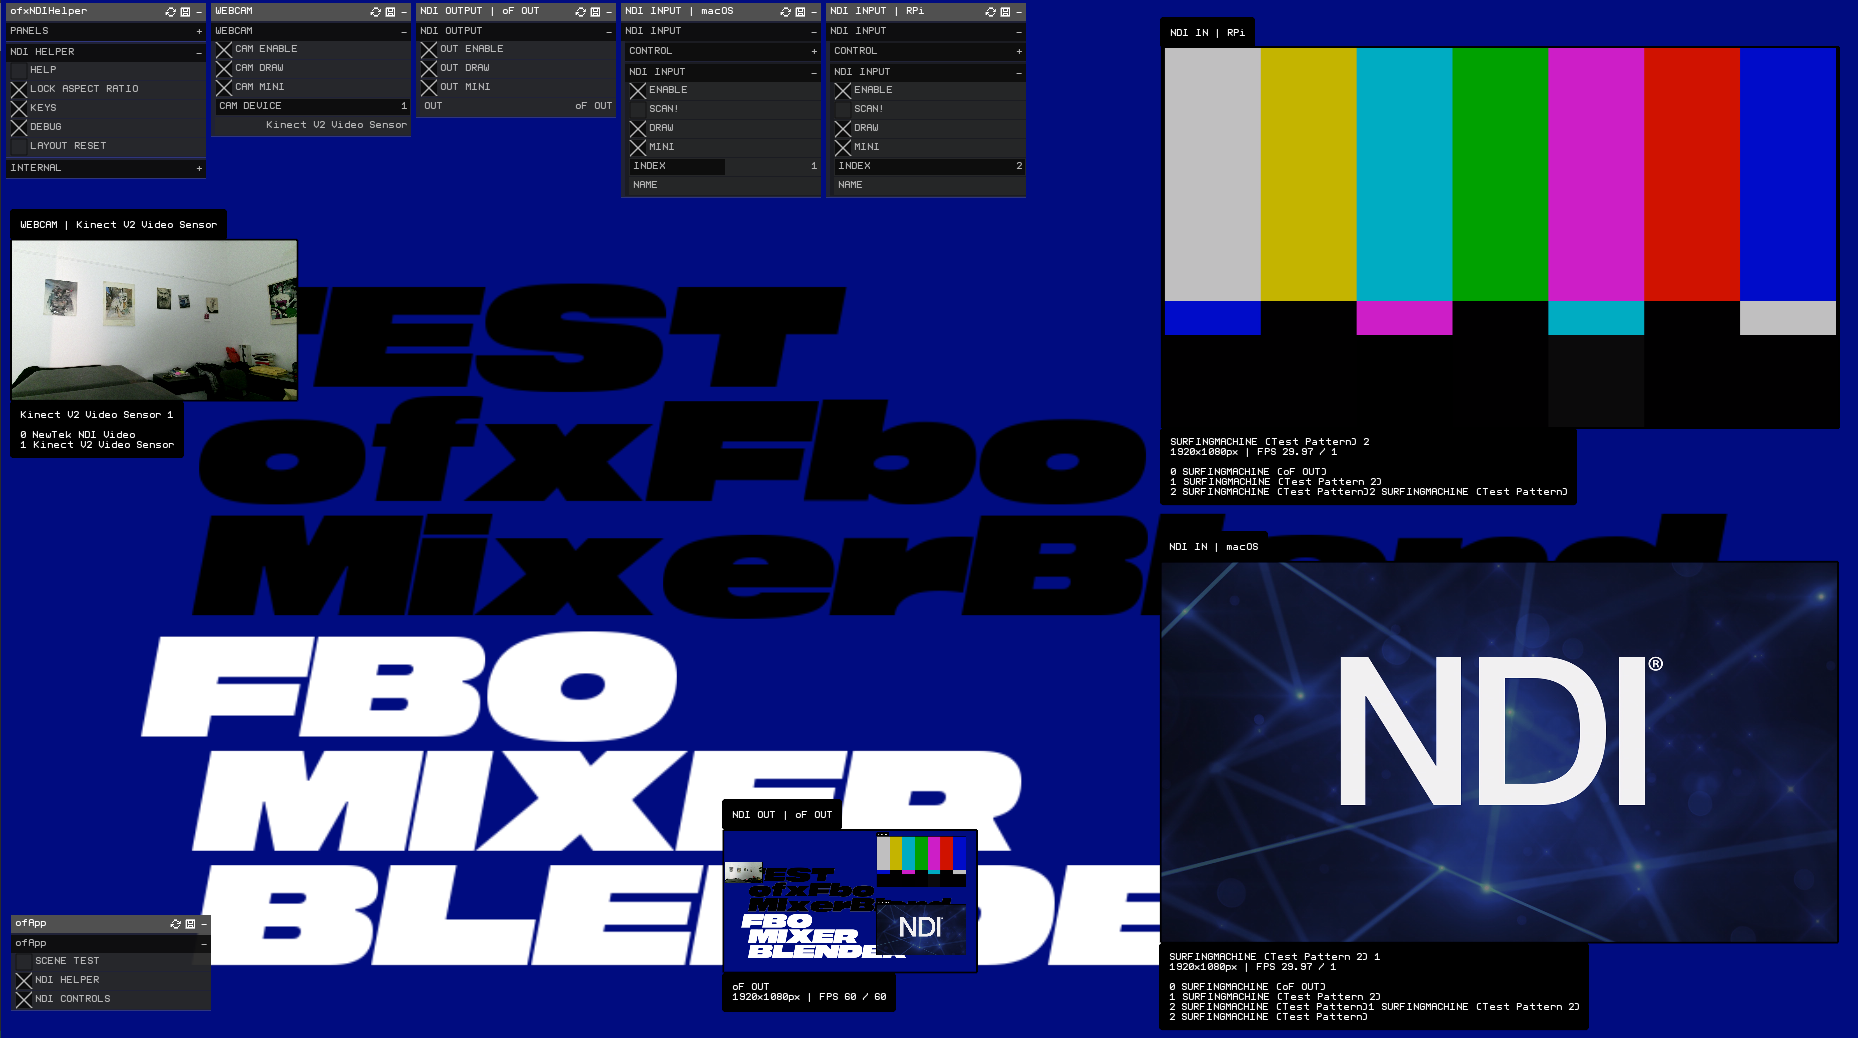
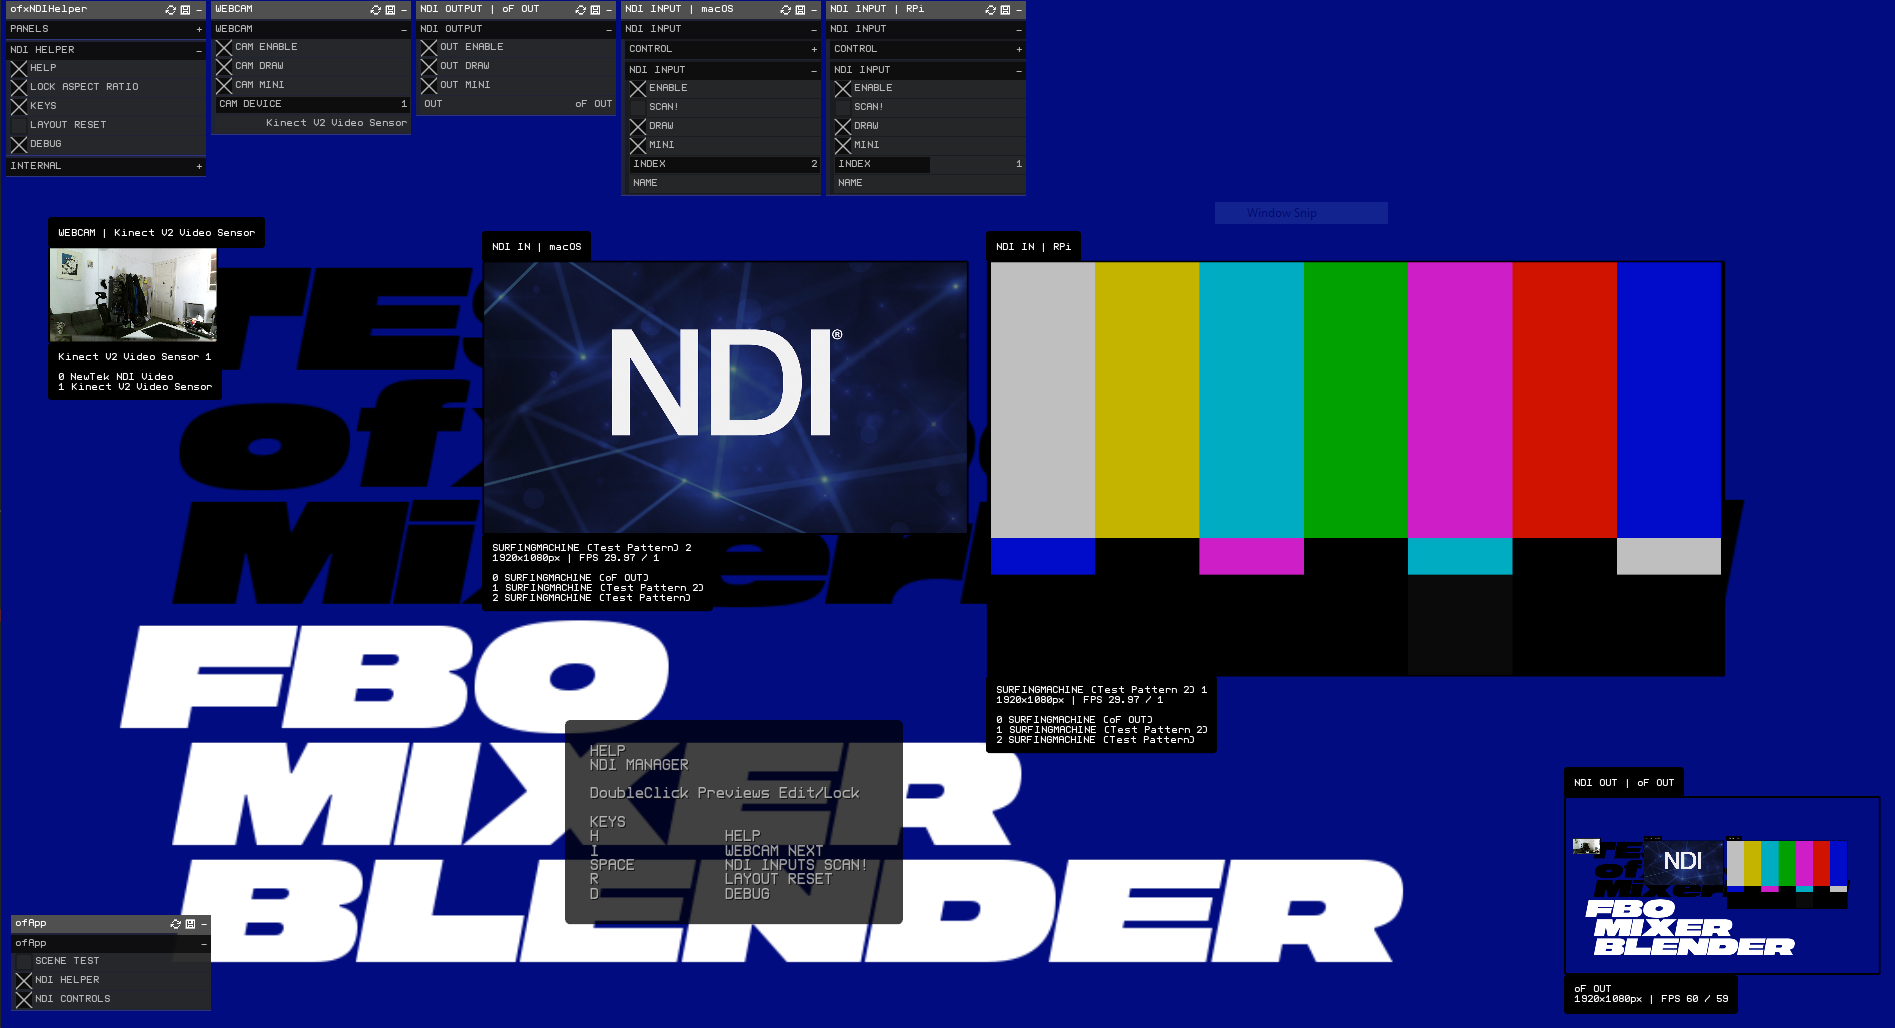
'

diff --git a/src/ofxNDIHelper.cpp b/src/ofxNDIHelper.cpp
@@ -26,13 +26,14 @@ ofxNDIHelper::ofxNDIHelper()
 	helpInfo += "HELP \n";
 	helpInfo += "NDI MANAGER \n";
 	helpInfo += "\n";
+	helpInfo += "DoubleClick Previews Edit/Lock \n";
+	helpInfo += "\n";
 	helpInfo += "KEYS \n";
 	helpInfo += "H              HELP \n";
-	helpInfo += "E              EDIT \n";
 	helpInfo += "I              WEBCAM NEXT \n";
-	helpInfo += "SPACE          NDI INPUT SCAN! \n";
+	helpInfo += "SPACE          NDI INPUTS SCAN! \n";
+	helpInfo += "R              LAYOUT RESET \n";
 	helpInfo += "D              DEBUG \n";
-	//helpInfo += "K              KEYS \n";
 
 	textBoxWidget.setText(helpInfo);
 
@@ -85,11 +86,6 @@ void ofxNDIHelper::reset_Gui()
 //--------------------------------------------------------------
 void ofxNDIHelper::setup_Gui()
 {
-	//--
-
-	// ofxGui Theme
-
-	ofxSurfingHelpers::setThemeDarkMini_ofxGui();
 
 	//--
 
@@ -140,6 +136,14 @@ void ofxNDIHelper::setup()
 {
 	// log mode
 	ofSetLogLevel("ofxNDIHelper", OF_LOG_NOTICE);
+
+	//--
+
+	// ofxGui Theme
+
+	ofxSurfingHelpers::setThemeDarkMini_ofxGui();
+
+	//--
 
 	// Gui display font
 
@@ -338,8 +342,8 @@ void ofxNDIHelper::setup_Params()
 	params_User.add(bHelp);
 	params_User.add(bLockRatio);
 	params_User.add(bKeys);
-	params_User.add(bDebug);//TODO: BUG: not linking when makeReference from parent scope..
 	params_User.add(bReset);
+	params_User.add(bDebug);//TODO: BUG: not linking when makeReference from parent scope..
 
 	//--
 
@@ -645,6 +649,11 @@ void ofxNDIHelper::keyPressed(ofKeyEventArgs& eventArgs)
 	else if (key == 'H')
 	{
 		bHelp = !bHelp;
+	}
+
+	else if (key == 'R')
+	{
+		doReset_Mini_Previews();
 	}
 
 	//--
@@ -1076,67 +1085,86 @@ void ofxNDIHelper::webcam_LoadSettings()
 //--------------------------------------------------------------
 void ofxNDIHelper::doReset_Mini_Previews()
 {
+	// Align all the previews using Webcam as anchor!
+	 
+	//float _xx0 = 100;
+	//float _yy0 = 250;
+	float _xx0 = rect_Webcam.getX();
+	float _yy0 = rect_Webcam.getY();
+
+	float _ratio;
+	float _xx;
+	float _yy;
+	float _ww;
+	float _hh;
+
+	//--
+
 #ifdef USE_WEBCAM
 
-	//float _ratio = vidGrabber.getHeight() / vidGrabber.getWidth();
-	//float _pad = 20;
-	//float _xx = gui_Controls.getShape().getTopRight().x + _pad;
-	//float _yy = gui_Controls.getShape().getTopRight().y + 28;
+	//rect_Webcam.reset();
 
-	////rect_Webcam.width = wPreview;
-	////rect_Webcam.height = rect_Webcam.width * _ratio;
-	////rect_Webcam.x = _xx;
-	////rect_Webcam.y = _yy;
+	_ratio = vidGrabber.getHeight() / vidGrabber.getWidth();
 
-	////glm::vec2 p = glm::vec2(gui_Control.getShape().getTopRight());
-	////float _xx = p.x + _pad;
-	////float _yy = p.y + 28;
+	_xx = _xx0;
+	_yy = _yy0;
+	_ww = rect_Webcam.getWidth();
+	//_ww = wPreview;
+	_hh = _ww * _ratio;
 
-	//rect_Webcam.setShape(ofRectangle(_xx, _yy, wPreview, wPreview * _ratio));
-	rect_Webcam.reset();
-
-#endif
-
-#ifdef USE_ofxNDI_OUT
-
-	//_ratio = fbo_NDI_Sender.getHeight() / fbo_NDI_Sender.getWidth();
-	//_yy += rect_Webcam.getRectangle().getBottomLeft().y + yPadPreview;
-	////rect_NDI_OUT.width = wPreview;
-	////rect_NDI_OUT.height = rect_NDI_OUT.width * _ratio;
-	////rect_NDI_OUT.x = _xx;
-	////rect_NDI_OUT.y = _yy;
-
-	//rect_NDI_OUT.setShape(ofRectangle(_xx, _yy, wPreview, wPreview * _ratio));
-	rect_NDI_OUT.reset();
+	rect_Webcam.setShape(ofRectangle(_xx, _yy, _ww, _hh));
 
 #endif
 
 	//--
 
-//	float _pad = 200;
-//	float _xx = xPadPreview;
-//	float _yy = yPadPreview;
-//	float _ratio;
-//
-//#ifdef USE_WEBCAM
-//	_yy += _pad + rect_NDI_OUT.height;
-//	_ratio = vidGrabber.getHeight() / vidGrabber.getWidth();
-//	rect_Webcam.width = wPreview;
-//	rect_Webcam.height = rect_Webcam.width * _ratio;
-//	rect_Webcam.x = _xx;
-//	rect_Webcam.y = _yy;
-//#endif
-//
-//#ifdef USE_ofxNDI_OUT
-//	_xx += xPadPreview + rect_Webcam.width;
-//	_yy = yPadPreview;
-//	//_yy += _pad + rect_NDI_IN.height;
-//	_ratio = fbo_NDI_Sender.getHeight() / fbo_NDI_Sender.getWidth();
-//	rect_NDI_OUT.width = wPreview;
-//	rect_NDI_OUT.height = rect_NDI_OUT.width * _ratio;
-//	rect_NDI_OUT.x = _xx;
-//	rect_NDI_OUT.y = _yy;
-//#endif
+#ifdef USE_ofxNDI_OUT
+
+	//rect_NDI_OUT.reset();
+
+	_ratio = fbo_NDI_Sender.getHeight() / fbo_NDI_Sender.getWidth();
+
+	_xx = _xx0;
+	_yy += _hh + yPadPreview;
+	_ww = rect_NDI_OUT.getWidth();
+	//_ww = wPreview;
+	_hh = _ww * _ratio;
+
+	rect_NDI_OUT.setShape(ofRectangle(_xx, _yy, _ww, _hh));
+
+#endif
+
+	//--
+
+#ifdef USE_ofxNDI_IN
+
+	//NDI_Input1.doReset_Mini_Previews();
+
+	_xx = _xx0 + MAX(rect_Webcam.getWidth(), rect_NDI_OUT.getWidth()) + pad;
+	_yy = _yy0 ;
+	//_ww = wPreview;
+	_hh = _ww * _ratio;
+
+	auto r = NDI_Input1.getPreviewRect();
+	_ratio = r.getHeight() / r.getWidth();
+	_ww = r.getWidth();
+	
+	NDI_Input1.setPositionPreview(glm::vec2(_xx, _yy));
+
+	//--
+
+	//NDI_Input2.doReset_Mini_Previews();
+
+	_xx = _xx + _ww + pad;
+
+	auto r2 = NDI_Input2.getPreviewRect();
+	_ratio = r2.getHeight() / r2.getWidth();
+	_ww = r2.getWidth();
+
+	NDI_Input2.setPositionPreview(glm::vec2(_xx, _yy));
+
+#endif
+
 }
 
 #ifdef USE_WEBCAM

diff --git a/src/NDI_input.h b/src/NDI_input.h
@@ -38,9 +38,10 @@ private:
 	ofParameterGroup params_Control;
 
 	void Changed(ofAbstractParameter& e);
-	void doReset_Mini_Previews();
 
 public:
+
+	void doReset_Mini_Previews();
 
 	ofParameter<bool> bGui_Preview;
 	ofParameter<bool> bGui_Internal;
@@ -109,6 +110,16 @@ public:
 	void setPositionGui(glm::vec2 pos)
 	{
 		gui_Control.setPosition(pos.x, pos.y);
+	}
+	//--------------------------------------------------------------
+	void setPositionPreview(glm::vec2 pos)
+	{
+		rect_NDI_IN.setPosition(pos.x, pos.y);
+	}
+
+	//--------------------------------------------------------------
+	ofRectangle getPreviewRect() {
+		return rect_NDI_IN.getRectangle();
 	}
 
 	//--

diff --git a/examples/1_Example_NDI-Basic/src/ofApp.cpp b/examples/1_Example_NDI-Basic/src/ofApp.cpp
@@ -10,12 +10,11 @@ void ofApp::setup()
 
 	image.loadImage("assets/image.jpg");
 
-
 	gui.setup("ofApp");
 	gui.add(bDrawImage);
 	gui.add(NDIHelper.bGui);
 	gui.add(NDIHelper.bGui_Controls);
-
+	gui.setPosition(10, ofGetHeight() - gui.getHeight() - 40);
 }
 
 //--------------------------------------------------------------

diff --git a/src/ofxNDIHelper.h b/src/ofxNDIHelper.h
@@ -178,7 +178,7 @@ private:
 	int pad = 20;
 	float wPreview = 320;
 	int xPadPreview = 300;
-	int yPadPreview = 200;
+	int yPadPreview = 100;
 	float _padx = 9;
 	float _pady =  - 11;
 	float _padx2 = 9;

diff --git a/README.md b/README.md
@@ -70,7 +70,9 @@ void ofApp::draw()
 ## Dependencies
 * [ofxNDI](https://github.com/leadedge/ofxNDI)
 * [ofxSurfingHelpers](https://github.com/moebiussurfing/ofxSurfingHelpers)
-* ofxGui / From oF Core
+* [ofxSurfingBox](https://github.com/moebiussurfing/ofxSurfingBox)
+* ofxGui / From oF Core  
+
 * [ofxWindowApp](https://github.com/moebiussurfing/ofxWindowApp) / For examples only
 * [ofxSceneTEST](https://github.com/moebiussurfing/ofxSceneTEST) / For examples only
 
